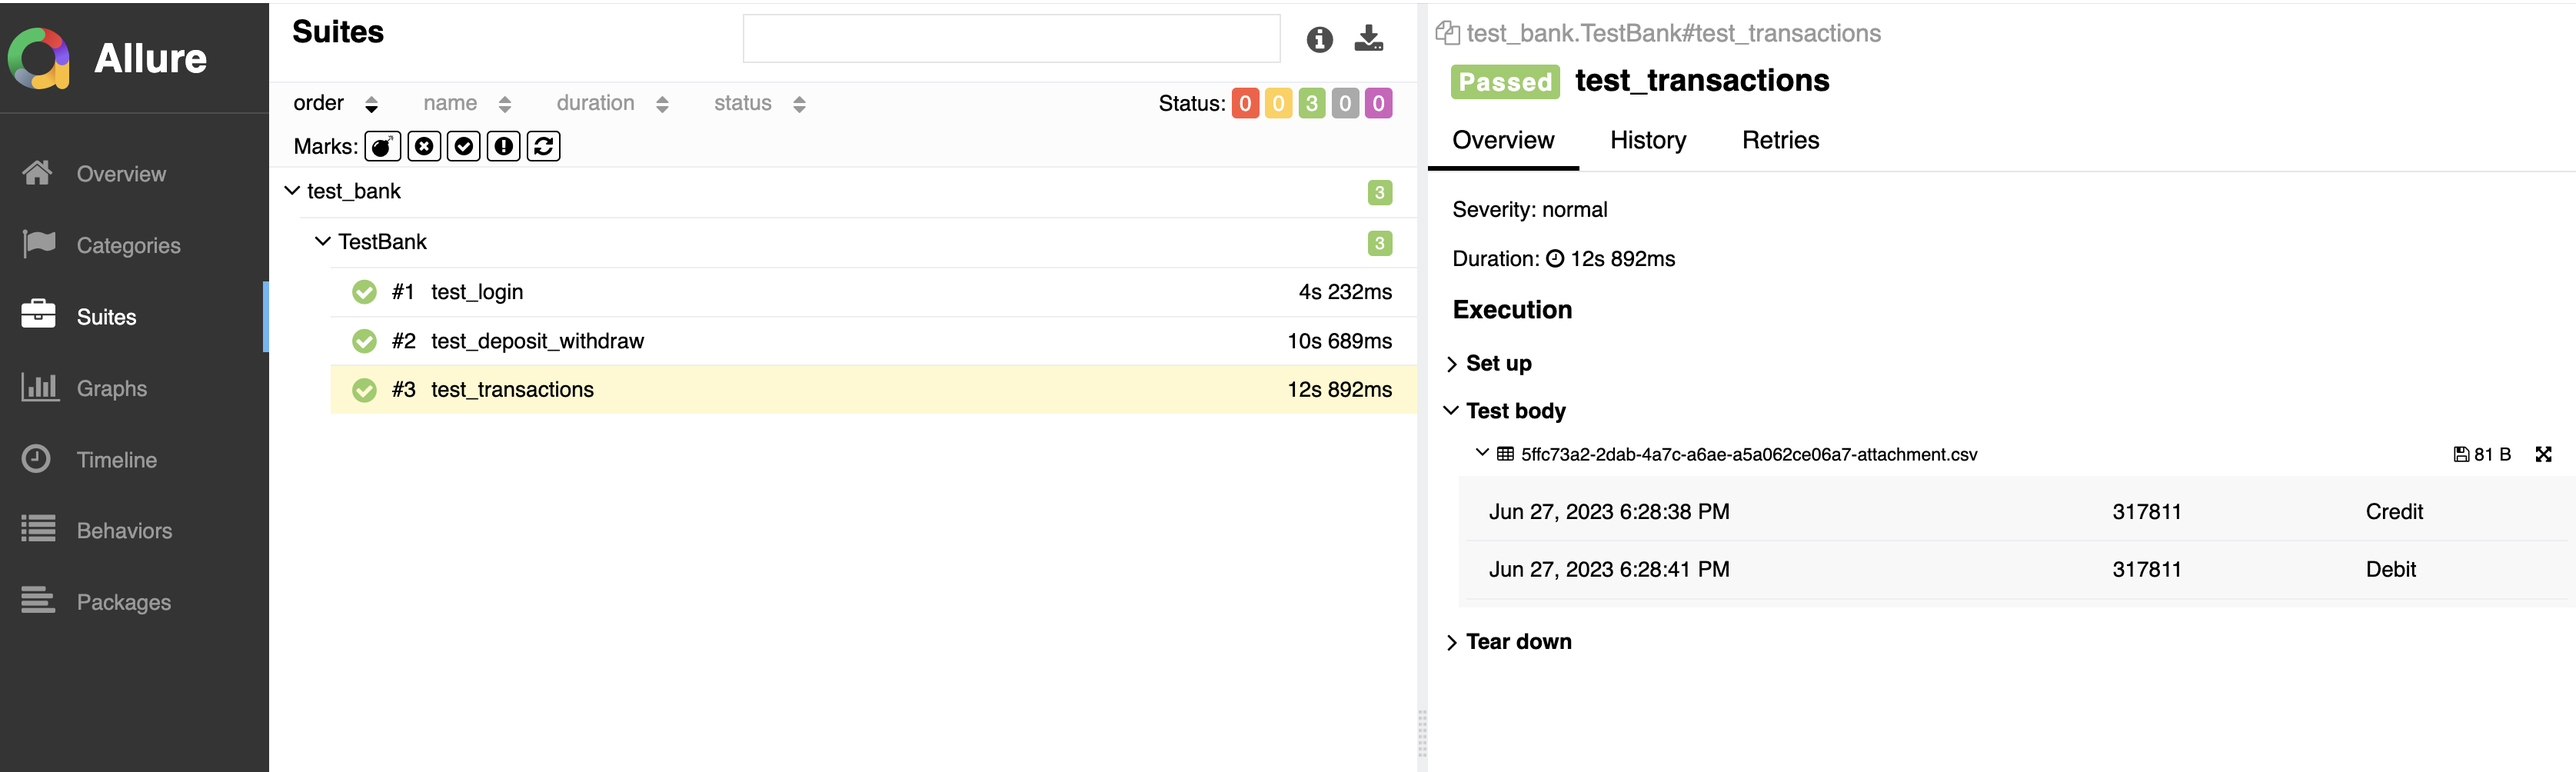
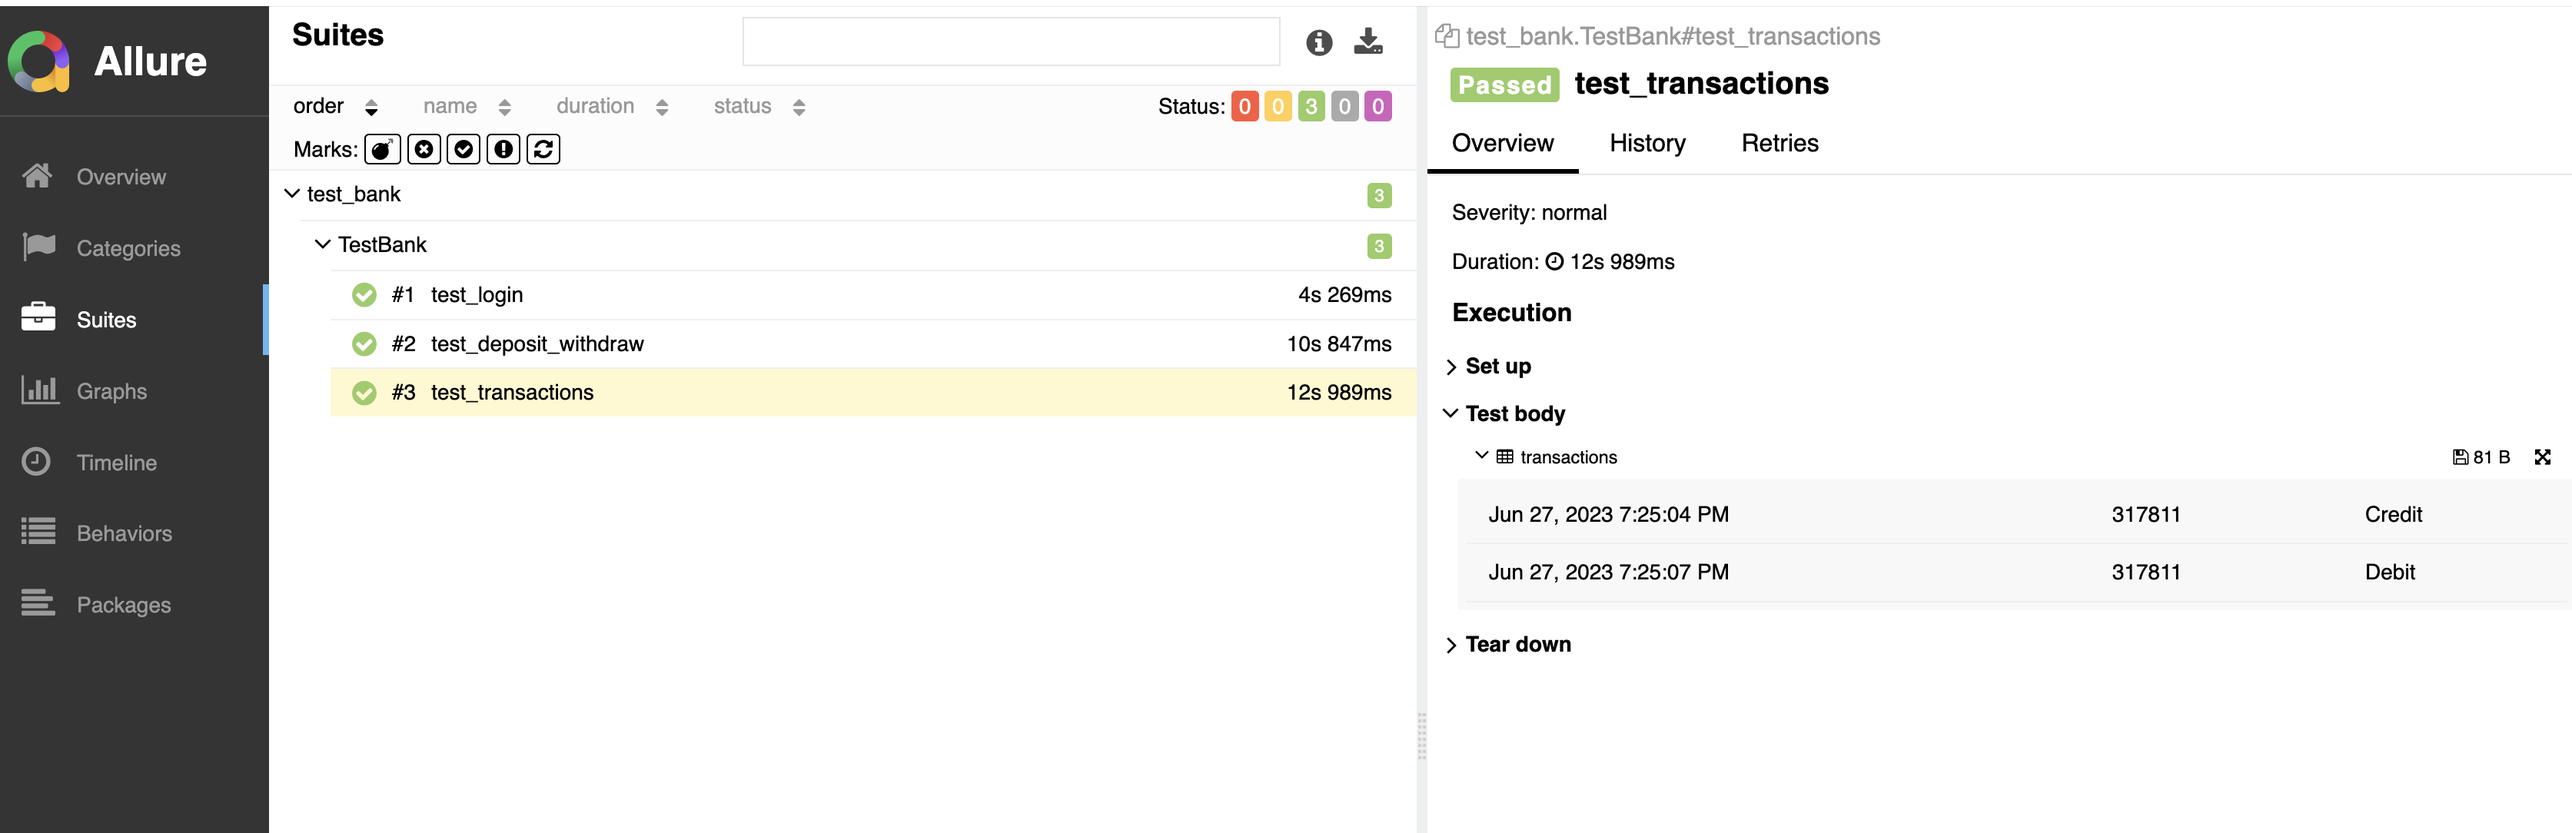
add new picture

diff --git a/test_bank.py b/test_bank.py
@@ -95,5 +95,5 @@ class TestBank:
             writer = csv.writer(file)
             writer.writerows(transaction_data)
 
-        allure.attach.file('transactions.csv', attachment_type=AttachmentType.CSV)
+        allure.attach.file('transactions.csv', name='transactions', attachment_type=AttachmentType.CSV)
 
